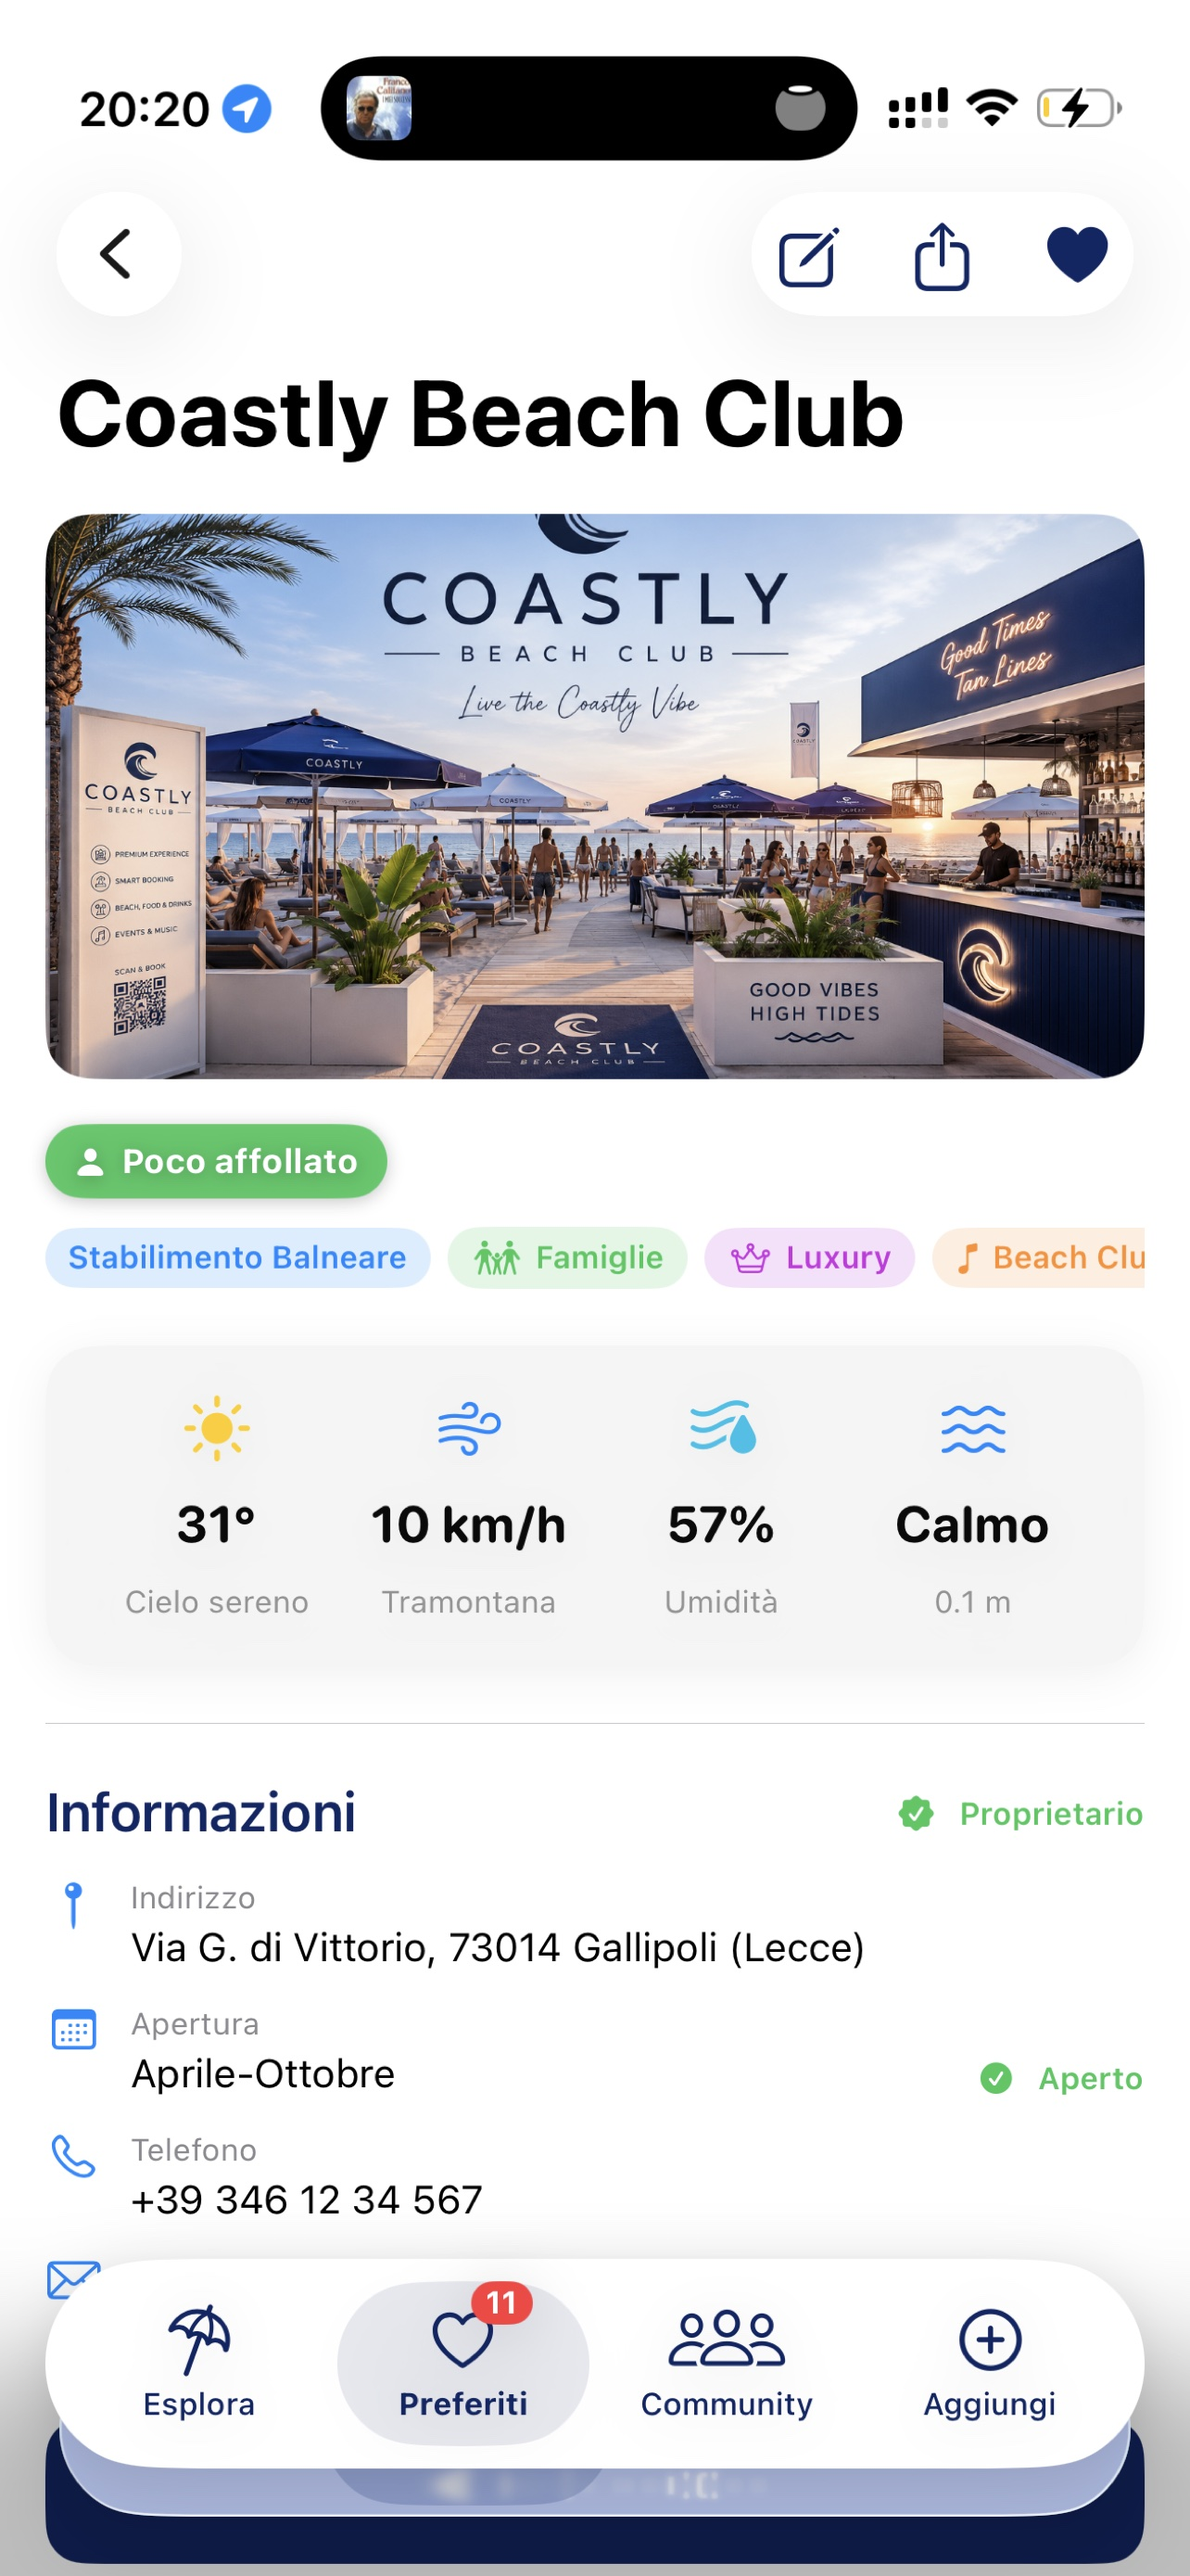
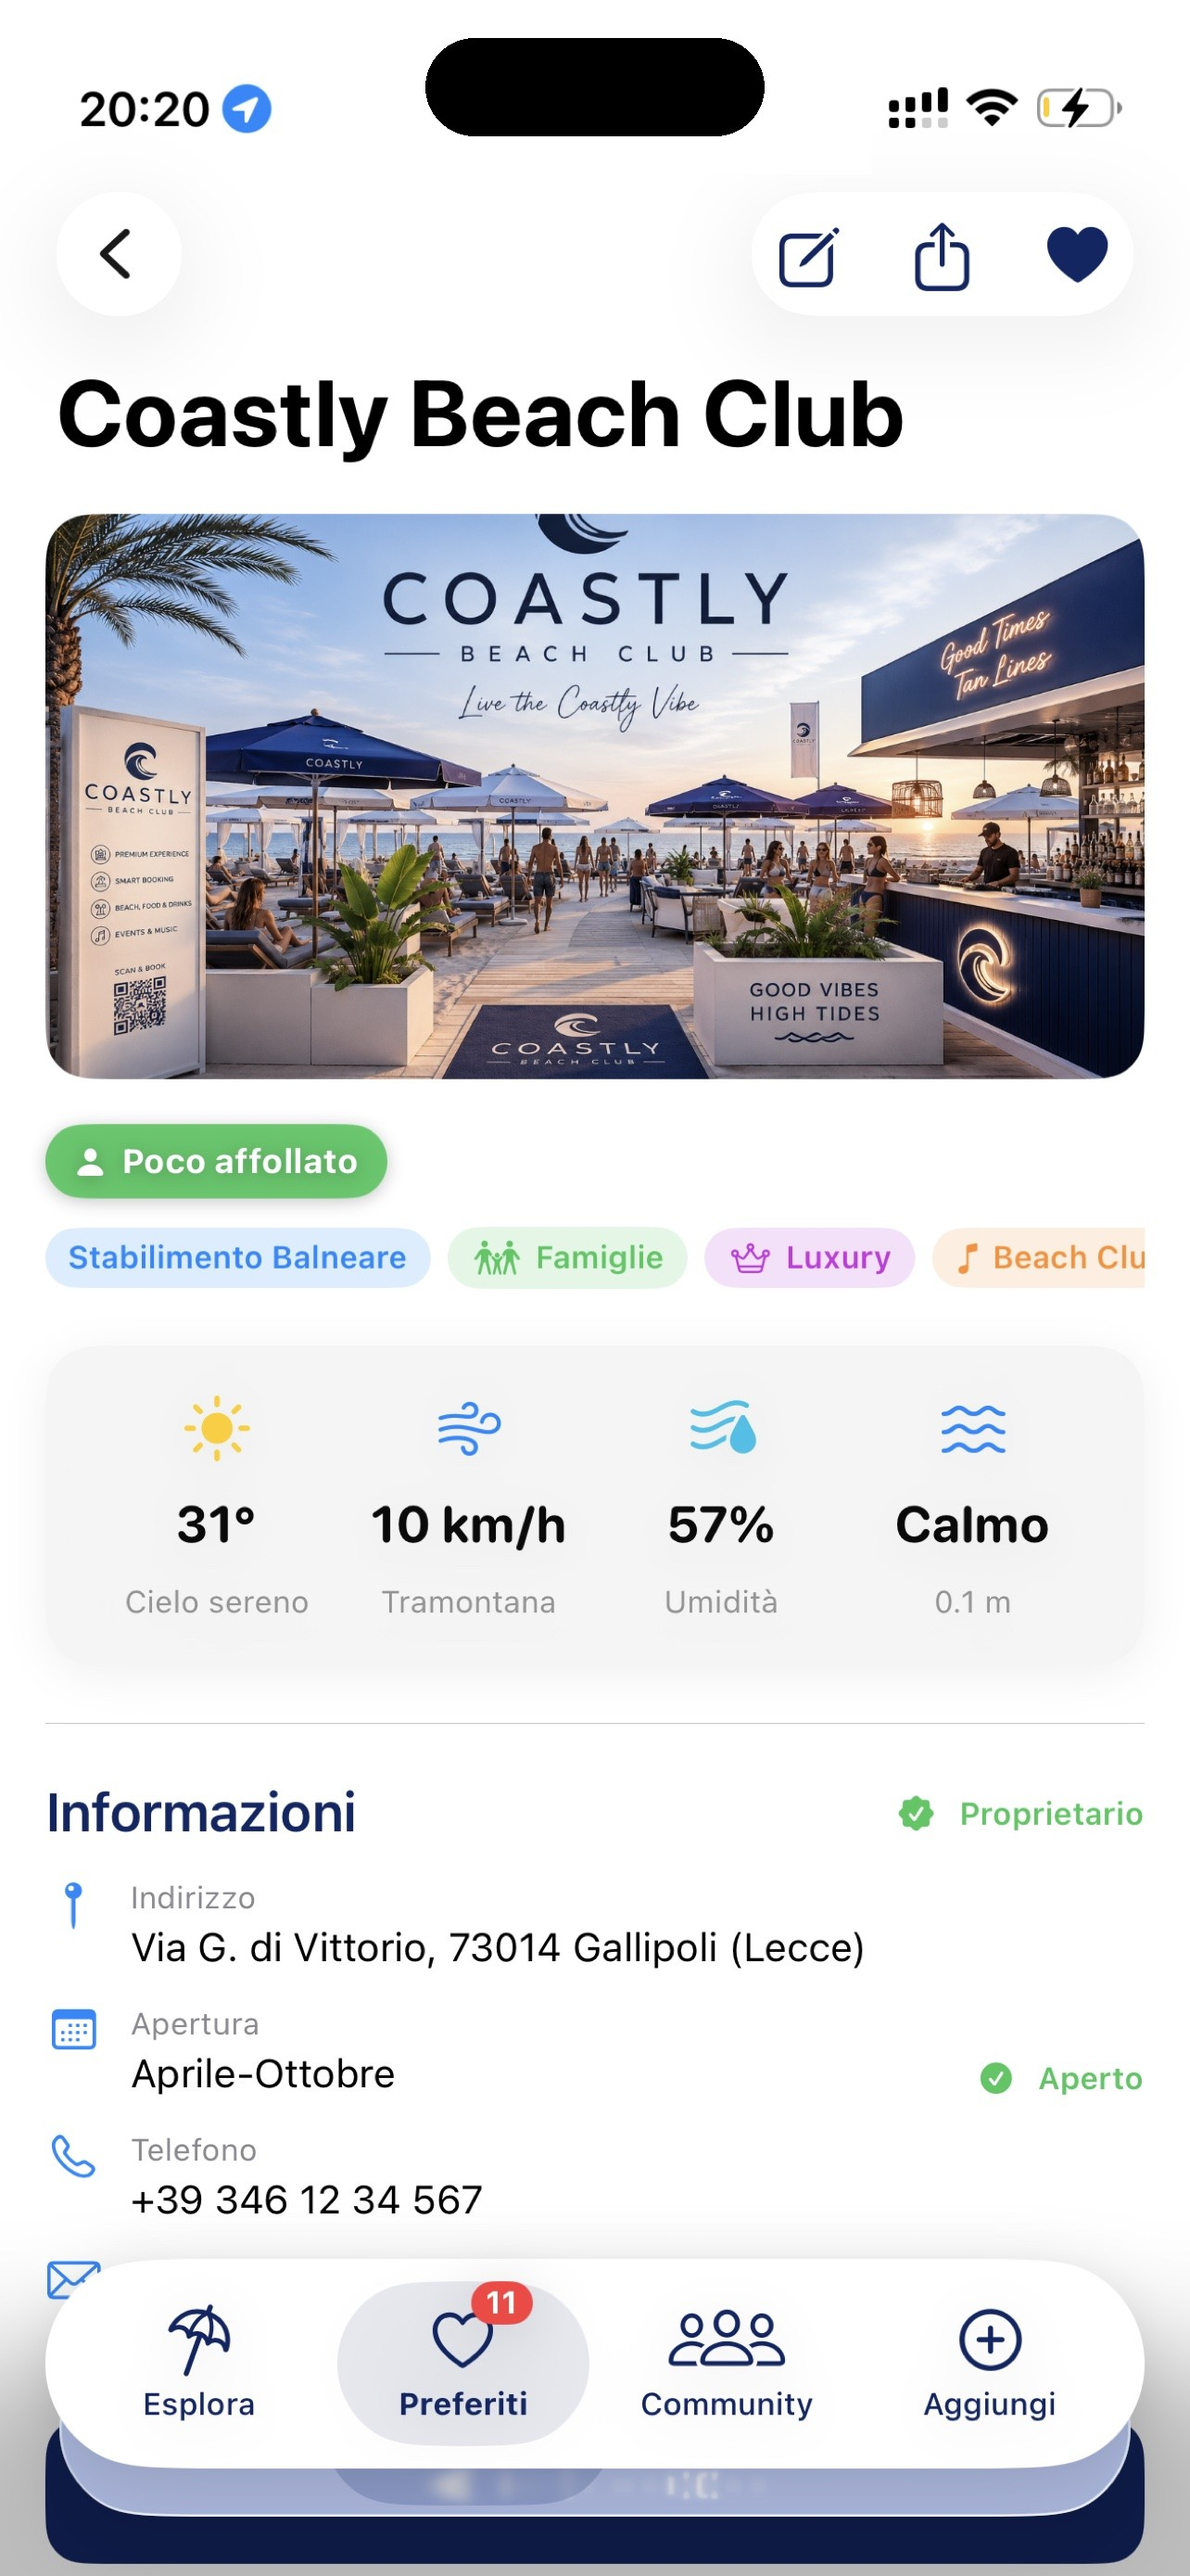
Correggi doppia dynamic island negli screenshot
Le nuove catture avevano una Live Activity attiva (widget "in
riproduzione") nella Dynamic Island, che si sovrapponeva in modo
disallineato alla dynamic island disegnata nel frame decorativo
del telefono, risultando in due isole visibili. Rimossa la Live
Activity dagli screenshot e ridisegnata un'isola pulita, allineata
al frame.

Changed region(s): [[0.2492, 0.0, 0.7165, 0.0619]]

diff --git a/index.html b/index.html
@@ -1113,10 +1113,10 @@
       <div class="container">
         <div class="hero-phones wow fadeInUp" data-wow-delay="200ms" aria-label="Anteprima app Coastly">
           <div class="iphone-air">
-            <img src="img/section-aggiungi.jpg" alt="Schermata aggiungi struttura Coastly">
+            <img src="img/section-aggiungi.jpg?v=2" alt="Schermata aggiungi struttura Coastly">
           </div>
           <div class="iphone-air">
-            <img src="img/header-detail-coastly.jpg" alt="Schermata dettaglio Coastly Beach Club">
+            <img src="img/header-detail-coastly.jpg?v=2" alt="Schermata dettaglio Coastly Beach Club">
           </div>
         </div>
         <div class="hero-cta-video wow fadeInUp" data-wow-delay="300ms">
@@ -1146,7 +1146,7 @@
       <div class="container split">
         <div class="phone-col wow fadeInUp" data-wow-delay="300ms">
           <div class="iphone-air">
-            <img src="img/section-dettaglio.jpg" alt="Schermata dettaglio Coastly Beach Club">
+            <img src="img/section-dettaglio.jpg?v=2" alt="Schermata dettaglio Coastly Beach Club">
           </div>
         </div>
         <div>
@@ -1304,7 +1304,7 @@
         </div>
         <div class="phone-col wow fadeInUp" data-wow-delay="300ms">
           <div class="iphone-air">
-            <img src="img/preview-preferiti.jpg?v=3" alt="Schermata scheda lido Coastly">
+            <img src="img/preview-preferiti.jpg?v=4" alt="Schermata scheda lido Coastly">
           </div>
         </div>
       </div>
@@ -1320,16 +1320,16 @@
         </div>
         <div class="screens">
           <figure class="iphone-air wow fadeInUp" data-wow-delay="300ms" style="margin:0 auto">
-            <img src="img/preview-home.jpg?v=3" alt="Schermata home Coastly">
+            <img src="img/preview-home.jpg?v=4" alt="Schermata home Coastly">
           </figure>
           <figure class="iphone-air wow fadeInUp" data-wow-delay="300ms" style="margin:0 auto">
-            <img src="img/preview-mappa.jpg?v=4" alt="Schermata mappa Coastly">
+            <img src="img/preview-mappa.jpg?v=5" alt="Schermata mappa Coastly">
           </figure>
           <figure class="iphone-air wow fadeInUp" data-wow-delay="300ms" style="margin:0 auto">
             <img src="img/preview-mare.jpg?v=3" alt="Schermata mare in tempo reale Coastly">
           </figure>
           <figure class="iphone-air wow fadeInUp" data-wow-delay="300ms" style="margin:0 auto">
-            <img src="img/section-dettaglio.jpg" alt="Schermata dettaglio lido Coastly">
+            <img src="img/section-dettaglio.jpg?v=2" alt="Schermata dettaglio lido Coastly">
           </figure>
         </div>
       </div>
